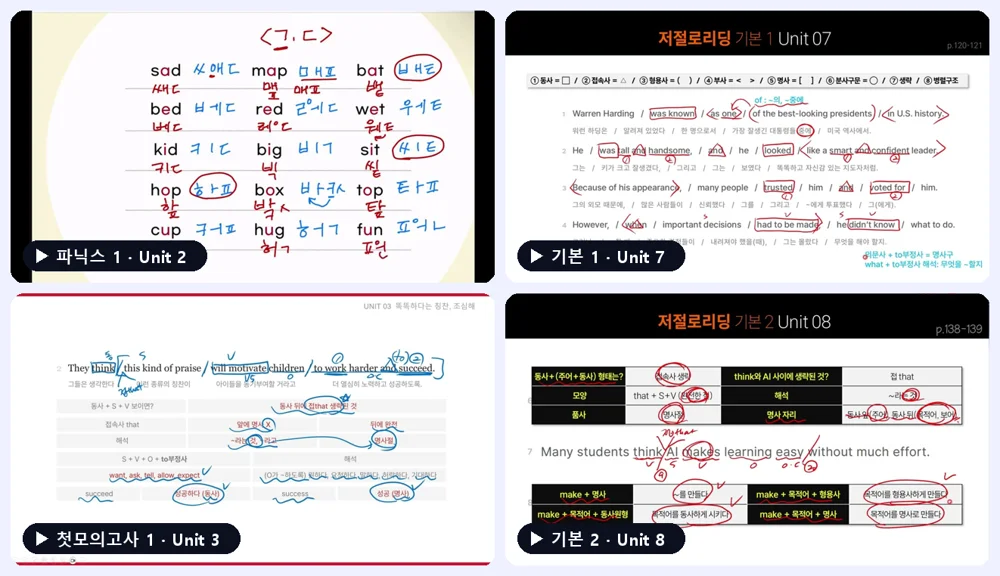
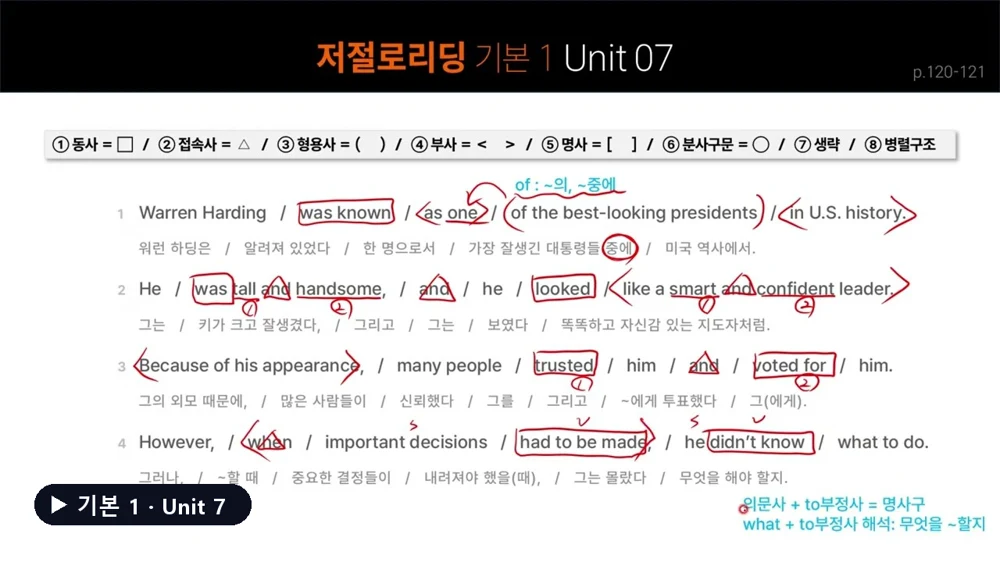
학원 도입: 저자 직강 이미지를 깔끔한 필기 화면 1장으로

diff --git a/academy/index.html b/academy/index.html
@@ -318,7 +318,7 @@
   <div class="sh rev"><h2>교재와 함께 오는 수업 도구</h2><p>모두 무료예요. 선생님은 수업에만 집중하세요.</p></div>
   <div class="atools">
     <figure class="rev"><div class="shot"><img src="/academy/img/tool_workbook.webp" alt="워크북 만들기 화면" loading="lazy"></div><figcaption><b>워크북 만들기</b><span>유닛만 고르면 단어 뜻·단어 쓰기·문장 해석·어순 배열·듣고 빈칸 쓰기 워크북이 정답지와 함께 바로 나와요</span></figcaption></figure>
-    <figure class="rev"><div class="shot"><img src="/academy/img/tool_lecture.webp?v=3" alt="저자 강의 영상" loading="lazy"></div><figcaption><b>주요 교재 저자 직강 영상</b><span>저자가 직접 판서하며 강의한 영상을 책의 QR로 바로 봐요. 수업 준비와 학생 복습에 그대로 써요</span></figcaption></figure>
+    <figure class="rev"><div class="shot"><img src="/academy/img/tool_lecture.webp?v=5" alt="저자 강의 영상" loading="lazy"></div><figcaption><b>주요 교재 저자 직강 영상</b><span>저자가 직접 판서하며 강의한 영상을 책의 QR로 바로 봐요. 수업 준비와 학생 복습에 그대로 써요</span></figcaption></figure>
   </div>
 </div></section>
 
